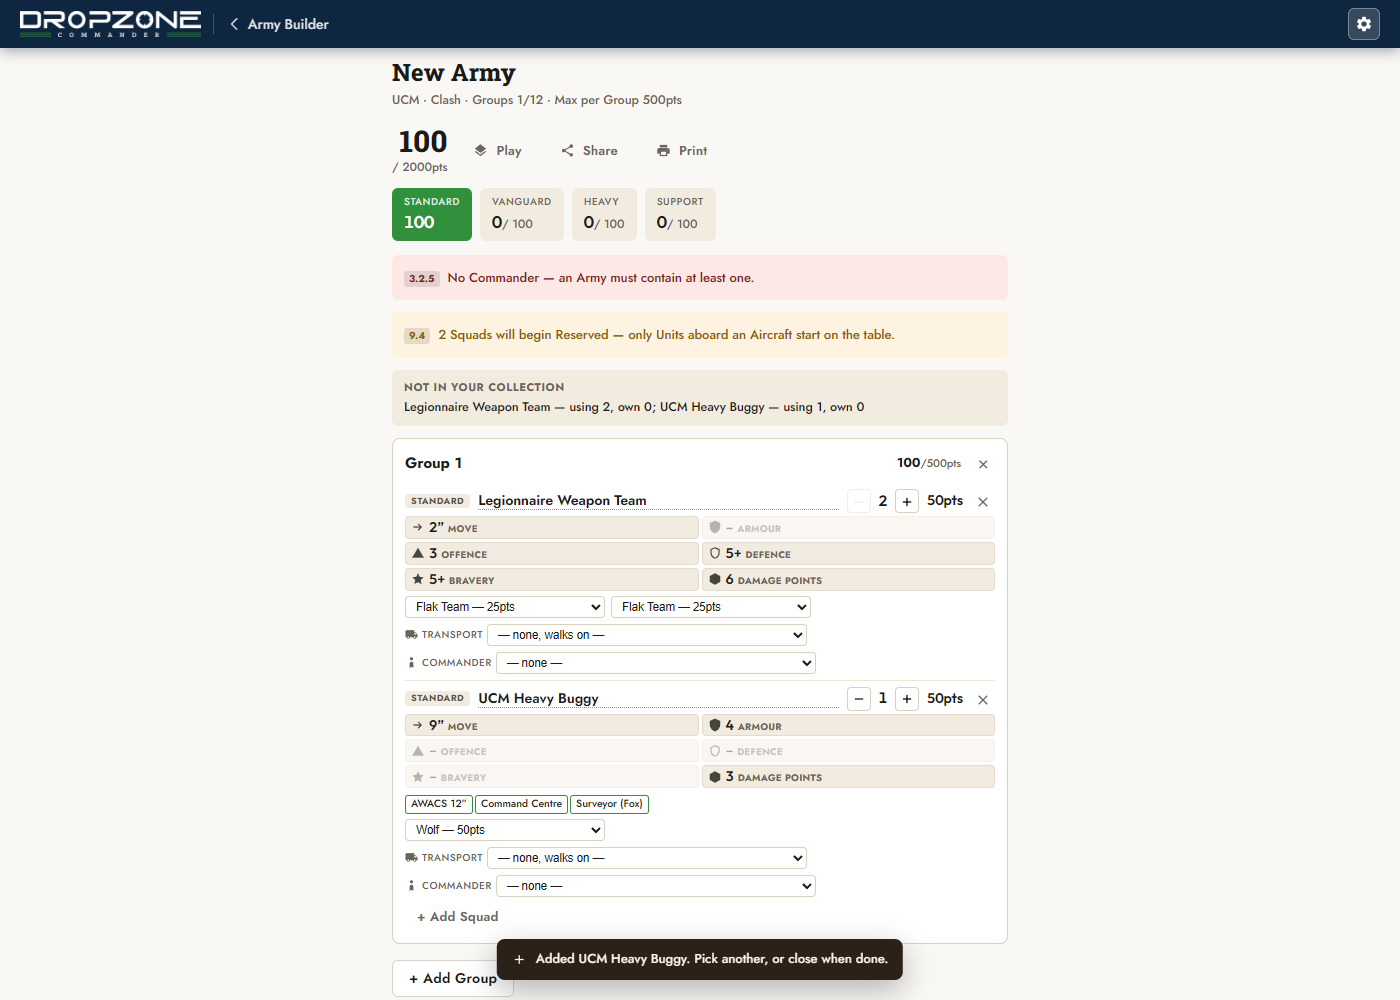
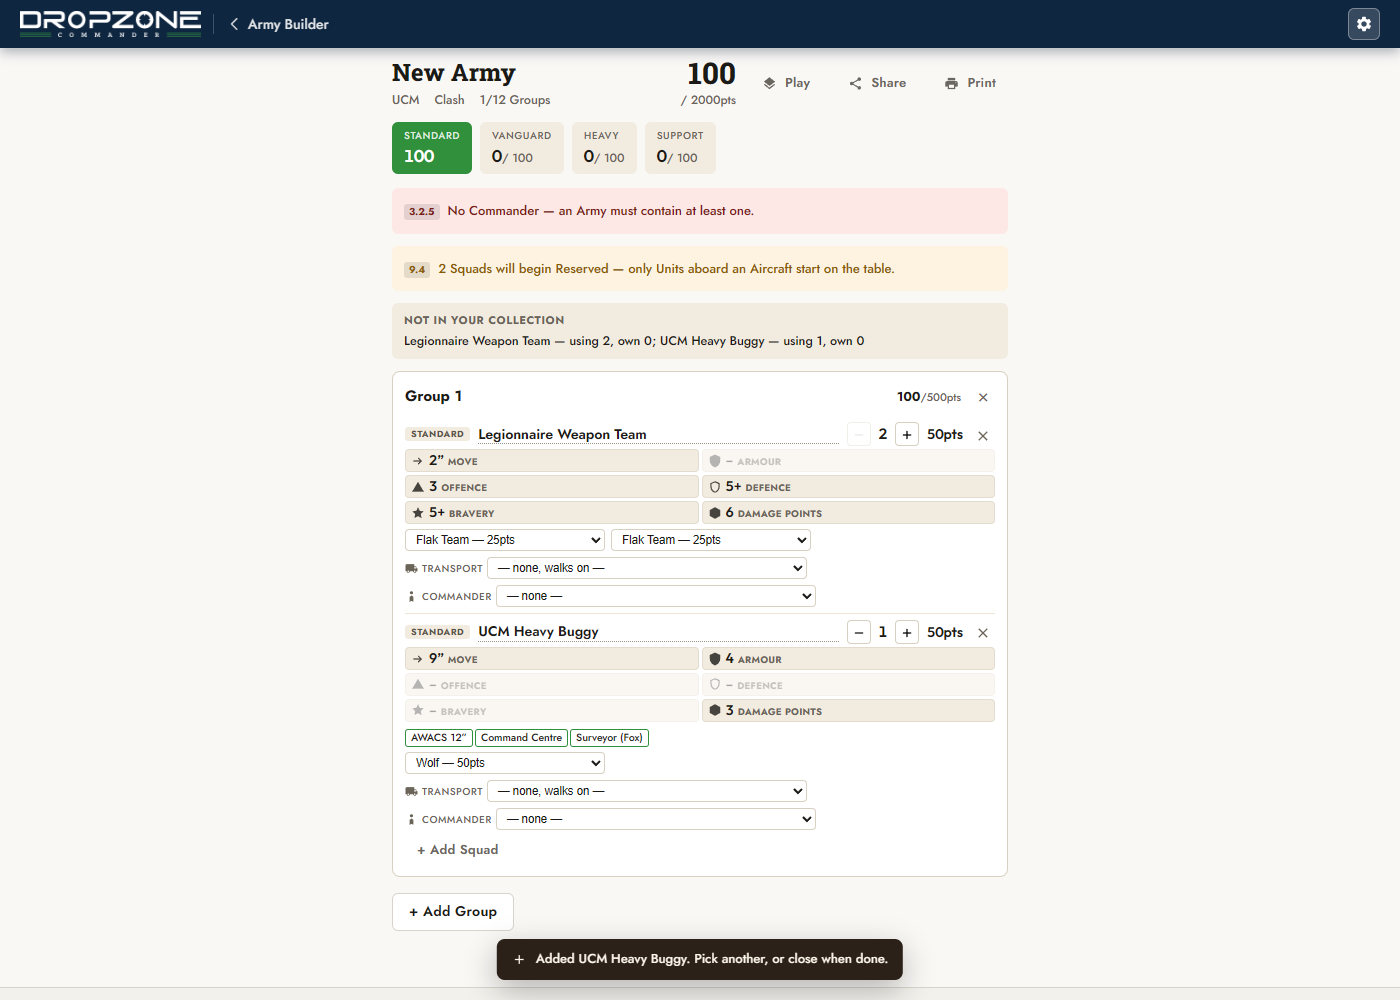
Spend no interpuncts on meta lines
The budget is two in the whole app and a single meta line was spending four.
Facts in a row are separated by space now, which does the same job quietly.

Thirteen gone, from the army cards, the builder header, the game-size cards,
the collection list, the unit detail and the printed sheet. The four left are
the WarLore footer separators, which are shared with the Dropfleet builder --
that is existing branding, so it is Jet's call, not mine.

The builder header also drops "Max per Group 500pts". Every Group card already
prints its own cost against that cap, so the header was restating a constant.

Rare and Unique in the unit detail are chips now instead of trailing text.

diff --git a/js/dzc-builder.js b/js/dzc-builder.js
@@ -50,9 +50,9 @@
                     aria-label="Delete ${esc(a.name)}">${window.DZCIcon('delete', { size: 15 })}</button>
           </span>
         </div>
-        <p class="dzc-army-meta">${esc((FACTIONS.find(f => f.id === a.faction) || {}).name || a.faction)}
-          · ${size ? esc(size.label) : 'Below minimum'}
-          · ${a.groups.length} Group${a.groups.length === 1 ? '' : 's'}</p>
+        <p class="dzc-army-meta"><span>${esc((FACTIONS.find(f => f.id === a.faction) || {}).name || a.faction)}</span>
+          <span>${size ? esc(size.label) : 'Below minimum'}</span>
+          <span>${a.groups.length} Group${a.groups.length === 1 ? '' : 's'}</span></p>
         <p class="dzc-army-pts"><b>${cost}</b> / ${a.pointsLimit}pts</p>
       </article>`;
     }).join('');
@@ -94,7 +94,7 @@
       <div class="game-size-info">
         <div class="game-size-name">${esc(g.label)}</div>
         <div class="game-size-details">${band}</div>
-        <div class="game-size-details game-size-sub">${groups} · max ${cap}pts per Group</div>
+        <div class="game-size-details game-size-sub">${groups}, max ${cap}pts per Group</div>
       </div>
     </div>`;
   }
@@ -210,10 +210,11 @@
         <div>
           <h1 contenteditable="true" spellcheck="false" class="dzc-b-name"
               onblur="DZCBuilder.rename(this.textContent)">${esc(a.name)}</h1>
-          <p class="dzc-b-sub">${esc((FACTIONS.find(f => f.id === a.faction) || {}).name)}
-            · ${size ? esc(size.label) : 'Below the 501pt minimum'}
-            · Groups ${a.groups.length}/${maxG || '—'}
-            · Max per Group ${cap}pts</p>
+          <!-- No "Max per Group" here: every Group card already prints its own
+               cost against that cap, so repeating it is noise. -->
+          <p class="dzc-b-sub"><span>${esc((FACTIONS.find(f => f.id === a.faction) || {}).name)}</span>
+            <span>${size ? esc(size.label) : 'Below the 501pt minimum'}</span>
+            <span>${a.groups.length}/${maxG || '—'} Groups</span></p>
         </div>
         <div class="dzc-b-right">
           <div class="dzc-b-pts ${cost > a.pointsLimit ? 'is-over' : ''}">
@@ -543,7 +544,7 @@
           <span class="pr-sq-cost">${cost}pts</span>
         </div>
         ${mixStr ? `<div class="pr-variants">${mixStr}</div>` : ''}
-        <div class="pr-stats">${stats}${u.special ? ` · ${esc(u.special)}` : ''}</div>
+        <div class="pr-stats">${stats}${u.special ? ` — ${esc(u.special)}` : ''}</div>
         ${cap ? `<div class="pr-cap">${cap}</div>` : ''}
         ${wpns}
         ${riders.map(r => squad(g, r, depth + 1)).join('')}
@@ -567,9 +568,10 @@
     el.innerHTML = `
       <div class="pr-head">
         <h1 class="pr-title">${esc(a.name)}</h1>
-        <p class="pr-sub">${esc((FACTIONS.find(f => f.id === a.faction) || {}).name || a.faction)}
-          · ${size ? esc(size.label) : ''} · ${a.groups.length} Group${a.groups.length === 1 ? '' : 's'}
-          · <b>${window.DZCArmy.armyCost(a)}</b> / ${a.pointsLimit}pts</p>
+        <p class="pr-sub"><span>${esc((FACTIONS.find(f => f.id === a.faction) || {}).name || a.faction)}</span>
+          <span>${size ? esc(size.label) : ''}</span>
+          <span>${a.groups.length} Group${a.groups.length === 1 ? '' : 's'}</span>
+          <span><b>${window.DZCArmy.armyCost(a)}</b> / ${a.pointsLimit}pts</span></p>
       </div>
       ${v.errors.length ? `<p class="pr-warn"><b>Not legal:</b> ${v.errors.map(e => esc(e.msg)).join(' ')}</p>` : ''}
       ${v.warnings.map(w => `<p class="pr-warn">${esc(w.msg)}</p>`).join('')}

diff --git a/css/dzc.css b/css/dzc.css
@@ -270,7 +270,18 @@
 }
 .dzc-pick-cost small { font-size: 10px; font-weight: 600; margin-left: 1px; }
 .dzc-pick-meta { display: block; margin-top: 1px; font-size: 11px; color: var(--ink-2, #6b6459); }
-.dzc-pick-meta span + span::before { content: '  '; white-space: pre; }
+
+/* Facts in a row are separated by space, not by punctuation. The interpunct
+   budget is two in the whole app, and a meta line spent four of them on its
+   own. Spacing does the same job and reads quieter. */
+.dzc-pick-meta span + span::before,
+.dzc-army-meta span + span::before,
+.dzc-b-sub span + span::before,
+.dzc-detail-meta span + span::before,
+.dzc-coll-meta span + span::before,
+.pr-sub span + span::before { content: '   '; white-space: pre; }
+.dzc-detail-meta .dzc-flag + .dzc-flag::before,
+.dzc-detail-meta span + .dzc-flag::before { content: ' '; white-space: pre; }
 .dzc-pick-stats { margin-top: 4px; }
 
 /* Two columns, three rows. Every cell carries its icon AND its word AND its

diff --git a/js/dzc-collection.js b/js/dzc-collection.js
@@ -113,8 +113,8 @@
           ${u.art ? `<img src="${esc(u.art)}" alt="" loading="lazy">` : '<span class="dzc-pick-noart"></span>'}
           <span class="dzc-coll-body">
             <span class="dzc-coll-name">${esc(u.name)}</span>
-            <span class="dzc-coll-meta">${esc(u.category)} · ${esc(u.type || '')}${
-              u.squadMin != null ? ` · Squad ${u.squadMin}${u.squadMax !== u.squadMin ? '–' + u.squadMax : ''}` : ''}</span>
+            <span class="dzc-coll-meta"><span>${esc(u.category)}</span> <span>${esc(u.type || '')}</span>${
+              u.squadMin != null ? ` <span>Squad ${u.squadMin}${u.squadMax !== u.squadMin ? '–' + u.squadMax : ''}</span>` : ''}</span>
           </span>
           <span class="dzc-stepper">
             <button type="button" onclick="DZCCollection.adjust('${esc(u.id)}',-1)" aria-label="One fewer">${window.DZCIcon('remove', { size: 14 })}</button>

diff --git a/js/dzc-units.js b/js/dzc-units.js
@@ -236,8 +236,9 @@
         ${u.art ? `<img class="dzc-detail-art" src="${esc(u.art)}" alt="">` : ''}
         <div>
           <h3>${esc(u.name)}</h3>
-          <p class="dzc-detail-meta">${esc(u.category)} · ${esc(u.type || '')} · ${pointsHtml(u)} · Squad ${squadHtml(u)}
-            ${u.rare ? ' · Rare' : ''}${u.unique ? ' · Unique' : ''}</p>
+          <p class="dzc-detail-meta"><span>${esc(u.category)}</span> <span>${esc(u.type || '')}</span>
+            <span>${pointsHtml(u)}</span> <span>Squad ${squadHtml(u)}</span>
+            ${u.rare ? '<span class="dzc-flag dzc-flag--rare">Rare</span>' : ''}${u.unique ? '<span class="dzc-flag dzc-flag--unique">Unique</span>' : ''}</p>
           <div class="dzc-card-stats">${statsHtml(u)}</div>
           ${transportHtml(u)}
         </div>
